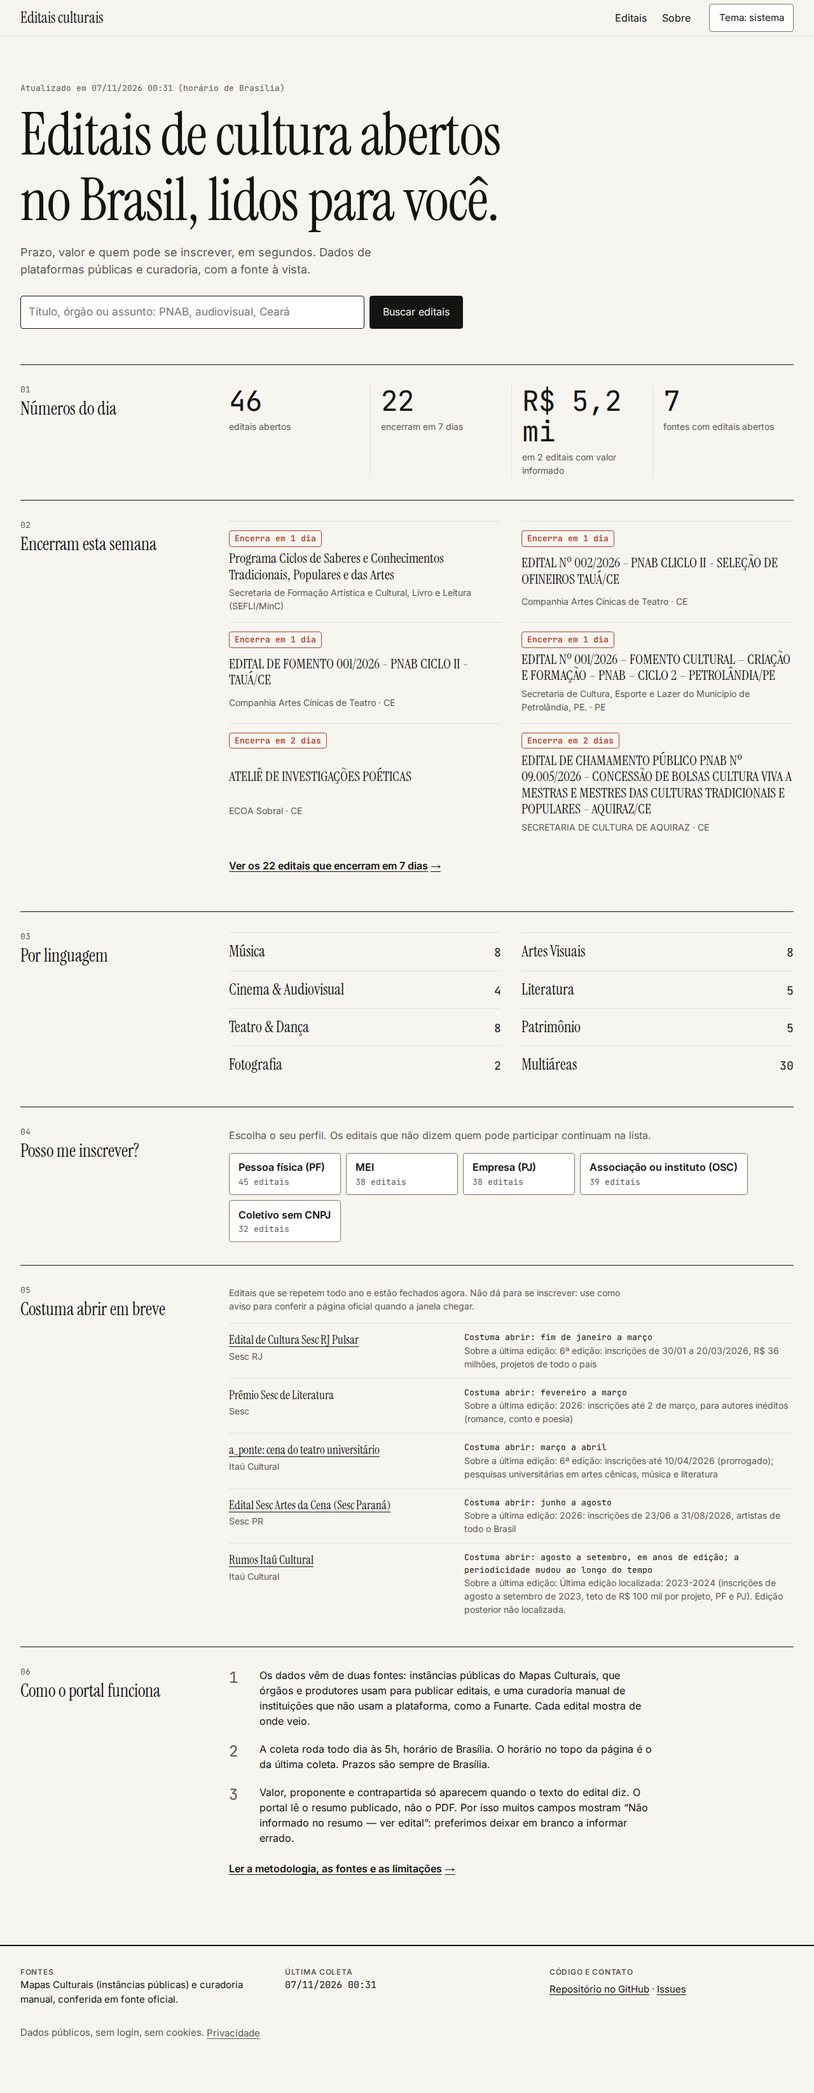
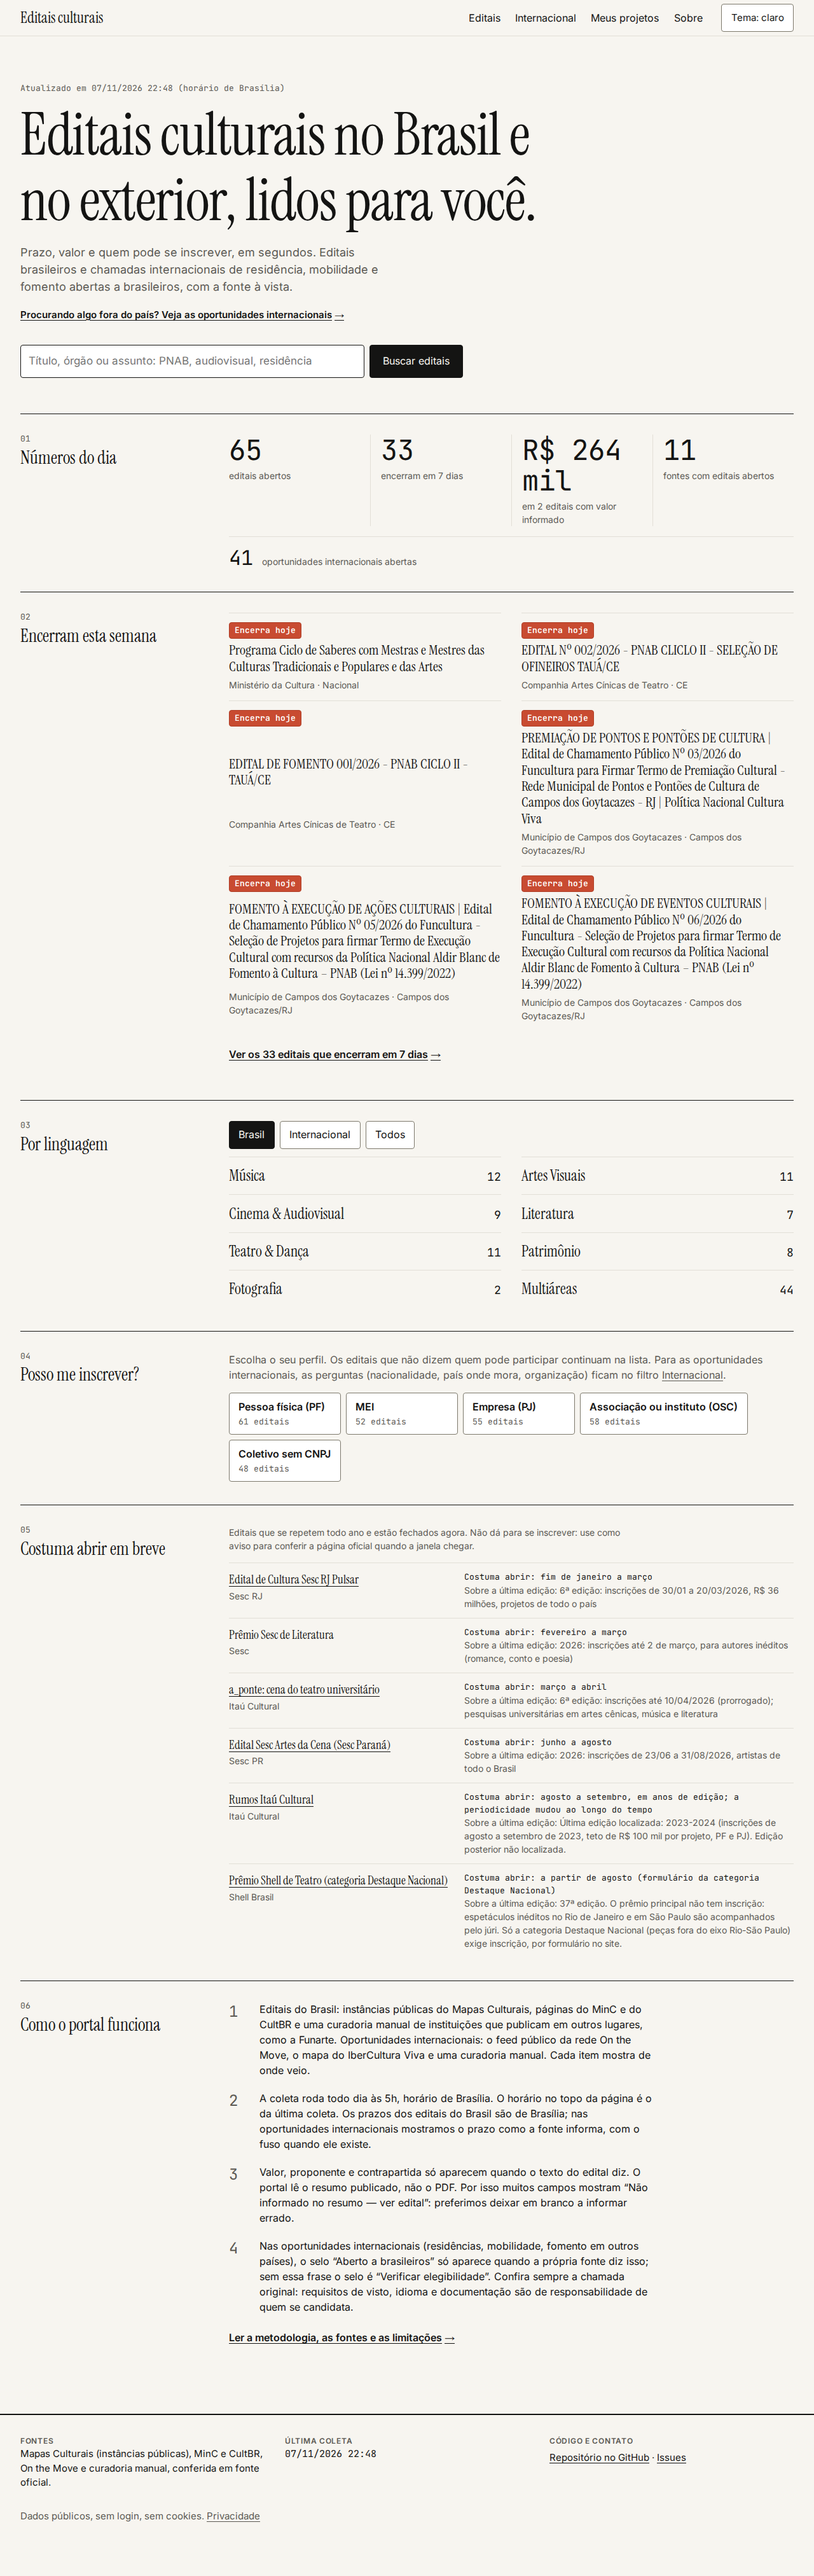
feat(curadoria): Ibermedia no radar e registro dos endereços avaliados
Ibermedia (PT-PT): todas as modalidades fechadas, entra no radar. Res Artis e Live Composers
ficam documentados (coletor pendente de decisão; robots.txt proíbe).

diff --git a/tests/test_scraper_worker.py b/tests/test_scraper_worker.py
@@ -93,7 +93,7 @@ async def test_dry_run_gera_snapshot_valido_e_falha_isolada(tmp_path, servidor_f
         e["url_origem"] and e["inscricao_fim"] for e in corpo["editais"]
     )
     assert {e["fonte"] for e in corpo["editais"]} >= {"curadoria", "mapas:ce"}
-    assert len(corpo["radar"]) == 6
+    assert len(corpo["radar"]) == 7
     fins = [e["inscricao_fim"] for e in corpo["editais"]]
     assert fins == sorted(fins)
 

diff --git a/tests/test_curadoria.py b/tests/test_curadoria.py
@@ -37,7 +37,7 @@ def escrever(tmp_path, texto):
 
 def test_arquivo_real_valida_e_conta_entradas():
     r = carregar_curadoria(CURADAS, date(2026, 11, 6))
-    assert len(r.editais) == 5 and len(r.radar) == 6
+    assert len(r.editais) == 5 and len(r.radar) == 7
     assert r.avisos == []
     for e in r.editais:
         assert e.fonte == "curadoria" and e.curado

diff --git a/docs/fontes-internacionais.md b/docs/fontes-internacionais.md
@@ -106,6 +106,14 @@ Testes: `tests/test_internacional_elegibilidade.py` e `tests/test_internacional_
 O prompt original chamava o terceiro programa de "Ibercena" e pedia um adaptador HTML para Ibermuseos; o nome
 oficial é **Iberescena**, e o adaptador de Ibermuseos ficou na curadoria pelo motivo da tabela.
 
+### Endereços avaliados em 08/11/2026 (Ibermedia PT-PT, Res Artis, Live Composers)
+
+| Endereço | Resultado |
+|---|---|
+| `programaibermedia.com/pt-pt/as-nossas-convocatorias/` | As 6 modalidades (distribuição, codesenvolvimento de longas e de séries, coprodução, formação, ajudas à indústria) aparecem como **"convocatória fechada"**; o único prazo da página, 30/03/2026, passou. Não há o que cadastrar em `curadoria_internacional.json`. A convocatória é anual, então entrou no **radar** ("Costuma abrir em breve") em `worker/fontes_curadas.yaml`. |
+| `resartis.org/open-calls/` | Agregador da rede Res Artis com ~150 chamadas de residência abertas, cada uma com título, **prazo** e **país**. Não dá para cadastrar à mão uma a uma, e o feed "Open Calls" do site vem vazio. `robots.txt` permite a página; o aviso legal diz que a lista é enviada por membros e que o Res Artis não garante os dados. Seria um coletor novo (HTML da listagem), tratado como o On the Move: título, prazo, país e link, com elegibilidade em "verificar". **Aguarda decisão**. |
+| `live-composers.pantheonsite.io` | Agregador de oportunidades para compositores ("The Composer's Site"), hospedado no domínio de plataforma `pantheonsite.io`. O `robots.txt` é `Disallow: /` para todos os robôs. **Não coletamos** e não dá para curar entradas a partir dele sem navegar o site por robô. Entra se vier o endereço oficial do site ou o link de uma chamada específica. |
+
 ### Curadoria manual · `worker/curadoria_internacional.json`
 
 - Validada no CI pelo schema `worker/curadoria_internacional.schema.json` (JSON Schema 2020-12) e, em produção,

diff --git a/DECISIONS.md b/DECISIONS.md
@@ -440,3 +440,14 @@ Pedido: `prompt-claude-code-internacional-fase1.md`. Documentação das fontes, 
   ao Supabase (`dados.js`) e o worker as grava; sem a migration o "ao vivo" falha (cai no snapshot) e o upsert do worker erra.
 - **Fora do escopo, deixado pronto:** `valor_brl` e `resumo_pt` (colunas vazias), `prazo_fuso` (guardado para a conversão),
   `ambito = estrangeiro_nacional`.
+
+### Internacional: Ibermedia, Res Artis e Live Composers (08/11/2026)
+
+- **Ibermedia (PT-PT):** nenhuma modalidade aberta (todas "convocatória fechada"; prazo de 30/03/2026 vencido), então nada vai para
+  `curadoria_internacional.json`. Virou entrada do **radar** (convocatória anual; janela "fim de janeiro a março", evidência na
+  edição de 2026), em `worker/fontes_curadas.yaml`. Sem `proponentes`: o texto fala em empresas e entidades dos países-membros, que
+  não mapeiam com segurança nos perfis do portal.
+- **Res Artis:** agregador com ~150 chamadas (título, prazo, país). Pede um coletor próprio, não curadoria manual; aguardo a decisão
+  do dono do projeto antes de ativar (termos: lista enviada por membros, sem garantia de exatidão; `robots.txt` permite a página).
+- **Live Composers:** `robots.txt` com `Disallow: /` para todos. Não coletamos nem curamos a partir dele. Foi feita uma única
+  requisição à página inicial para identificar o site; nenhuma outra.
